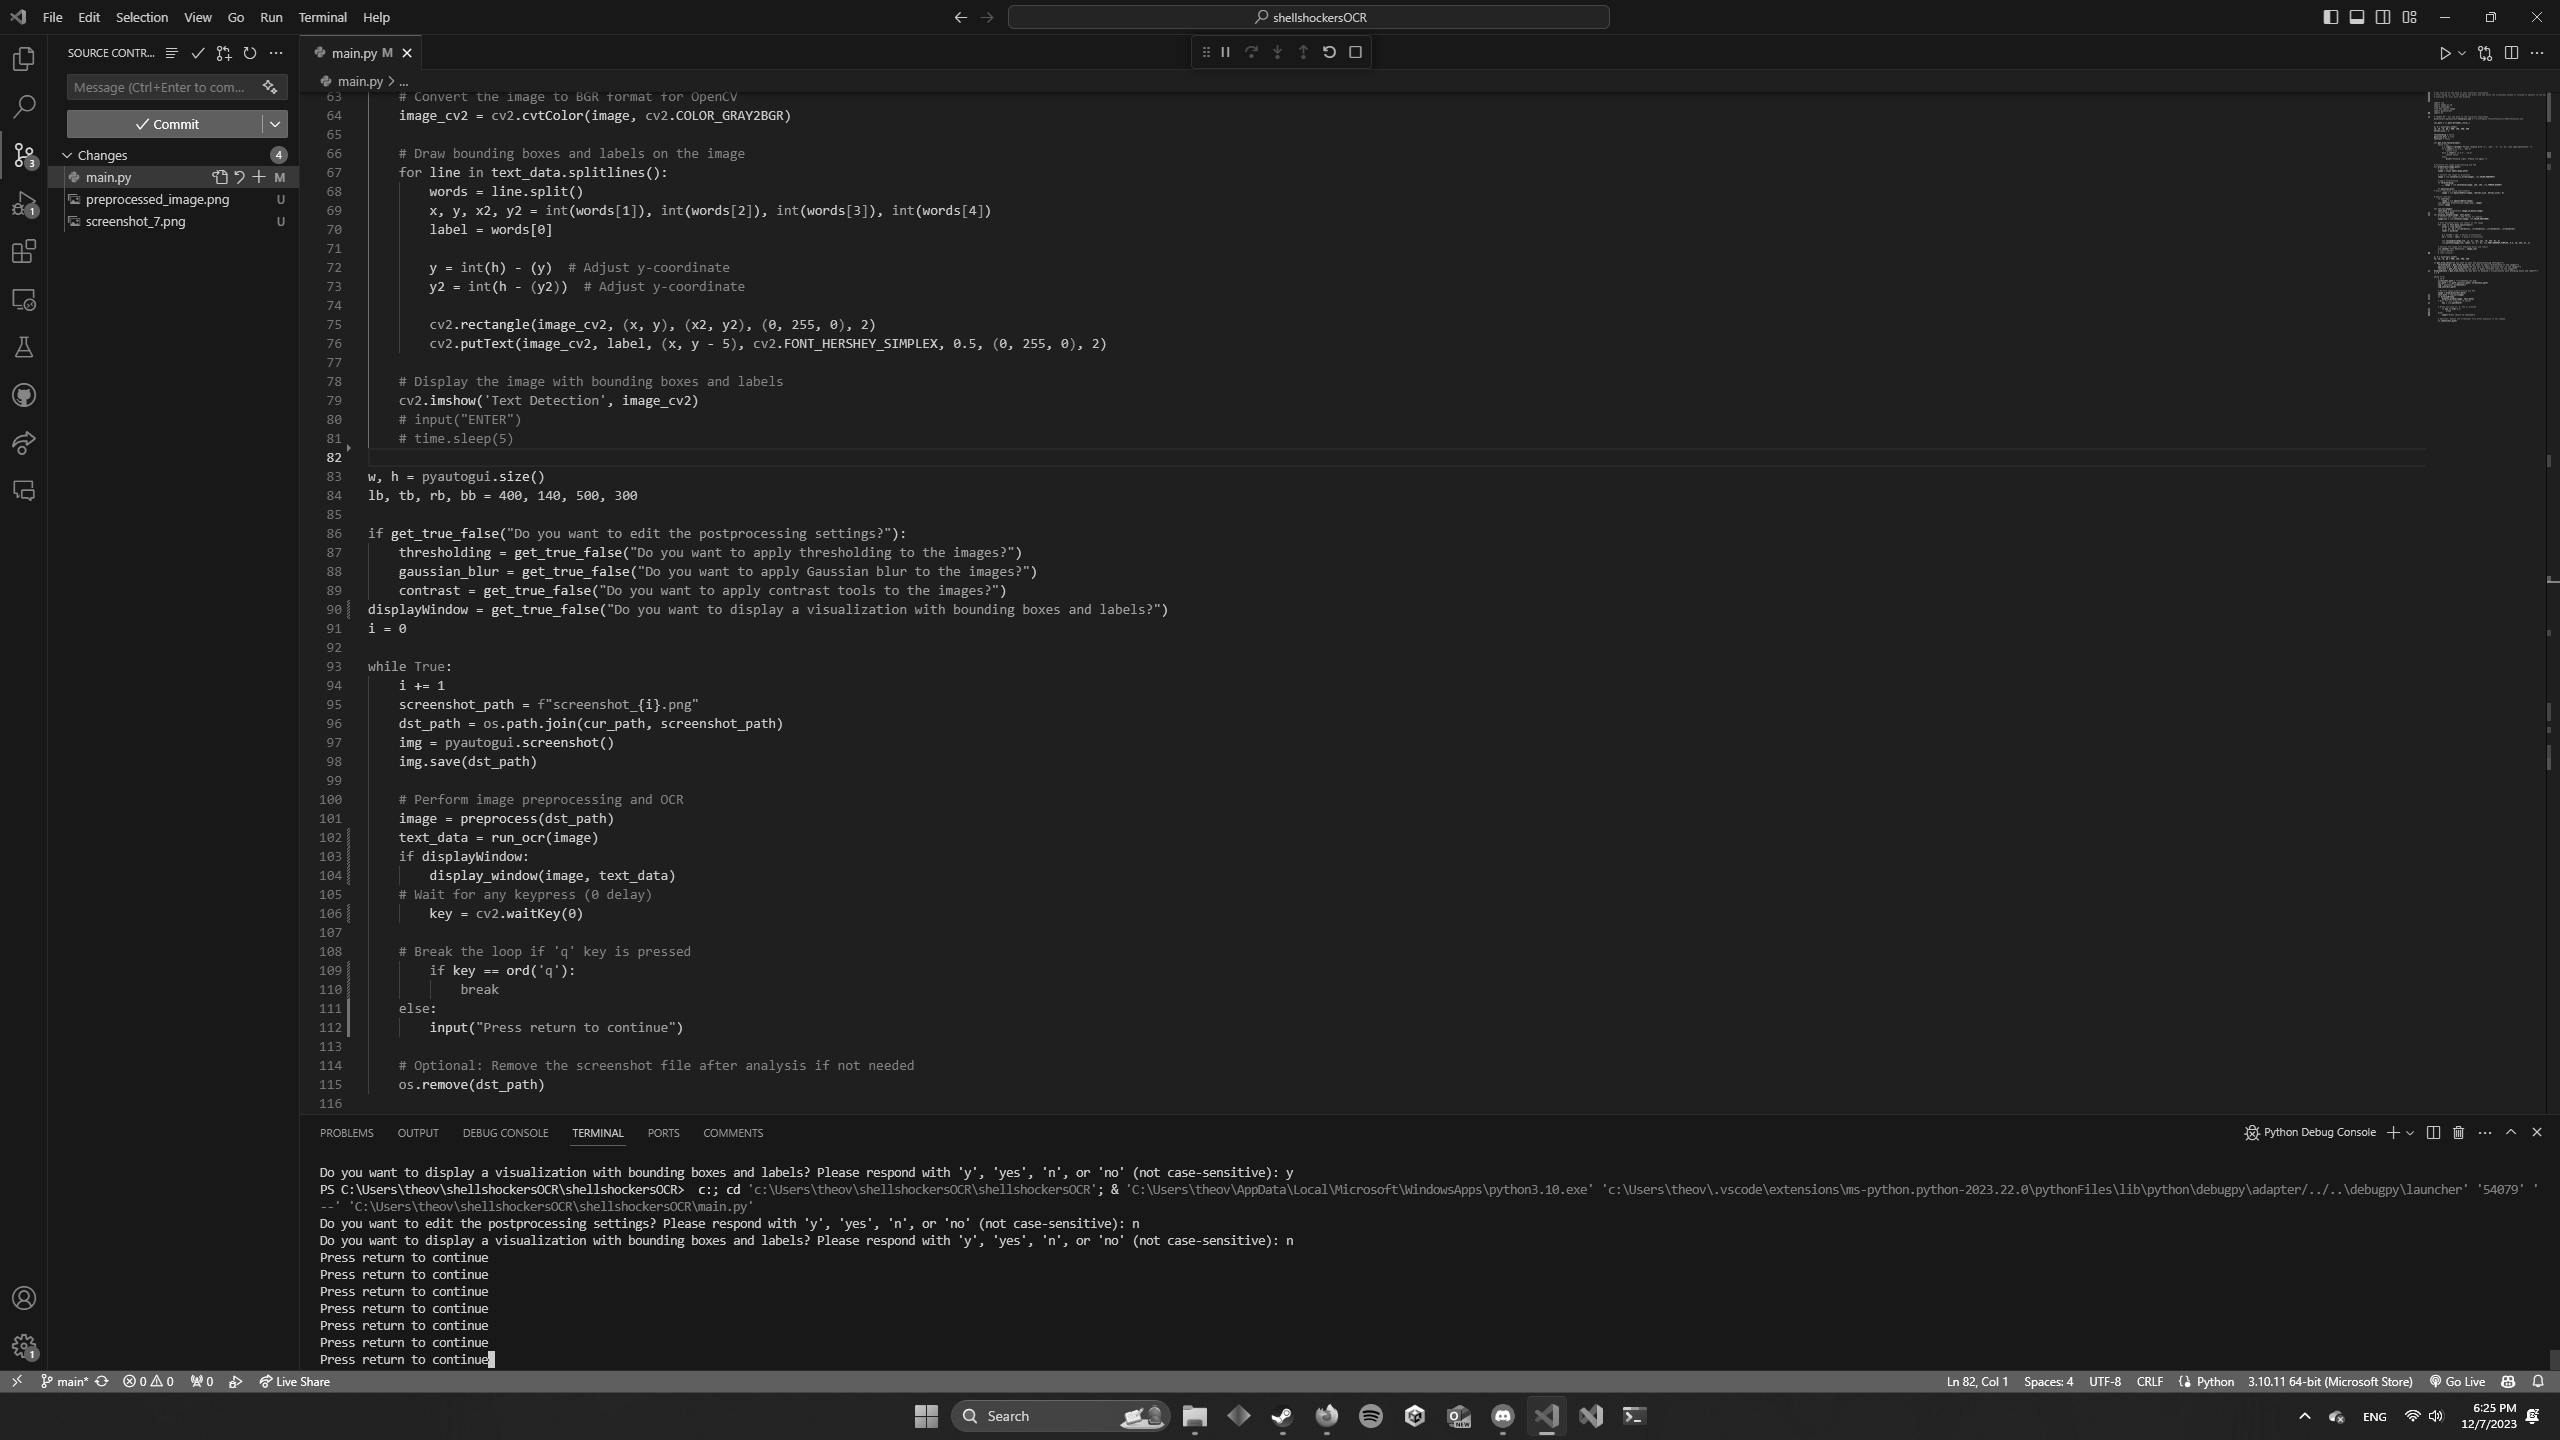
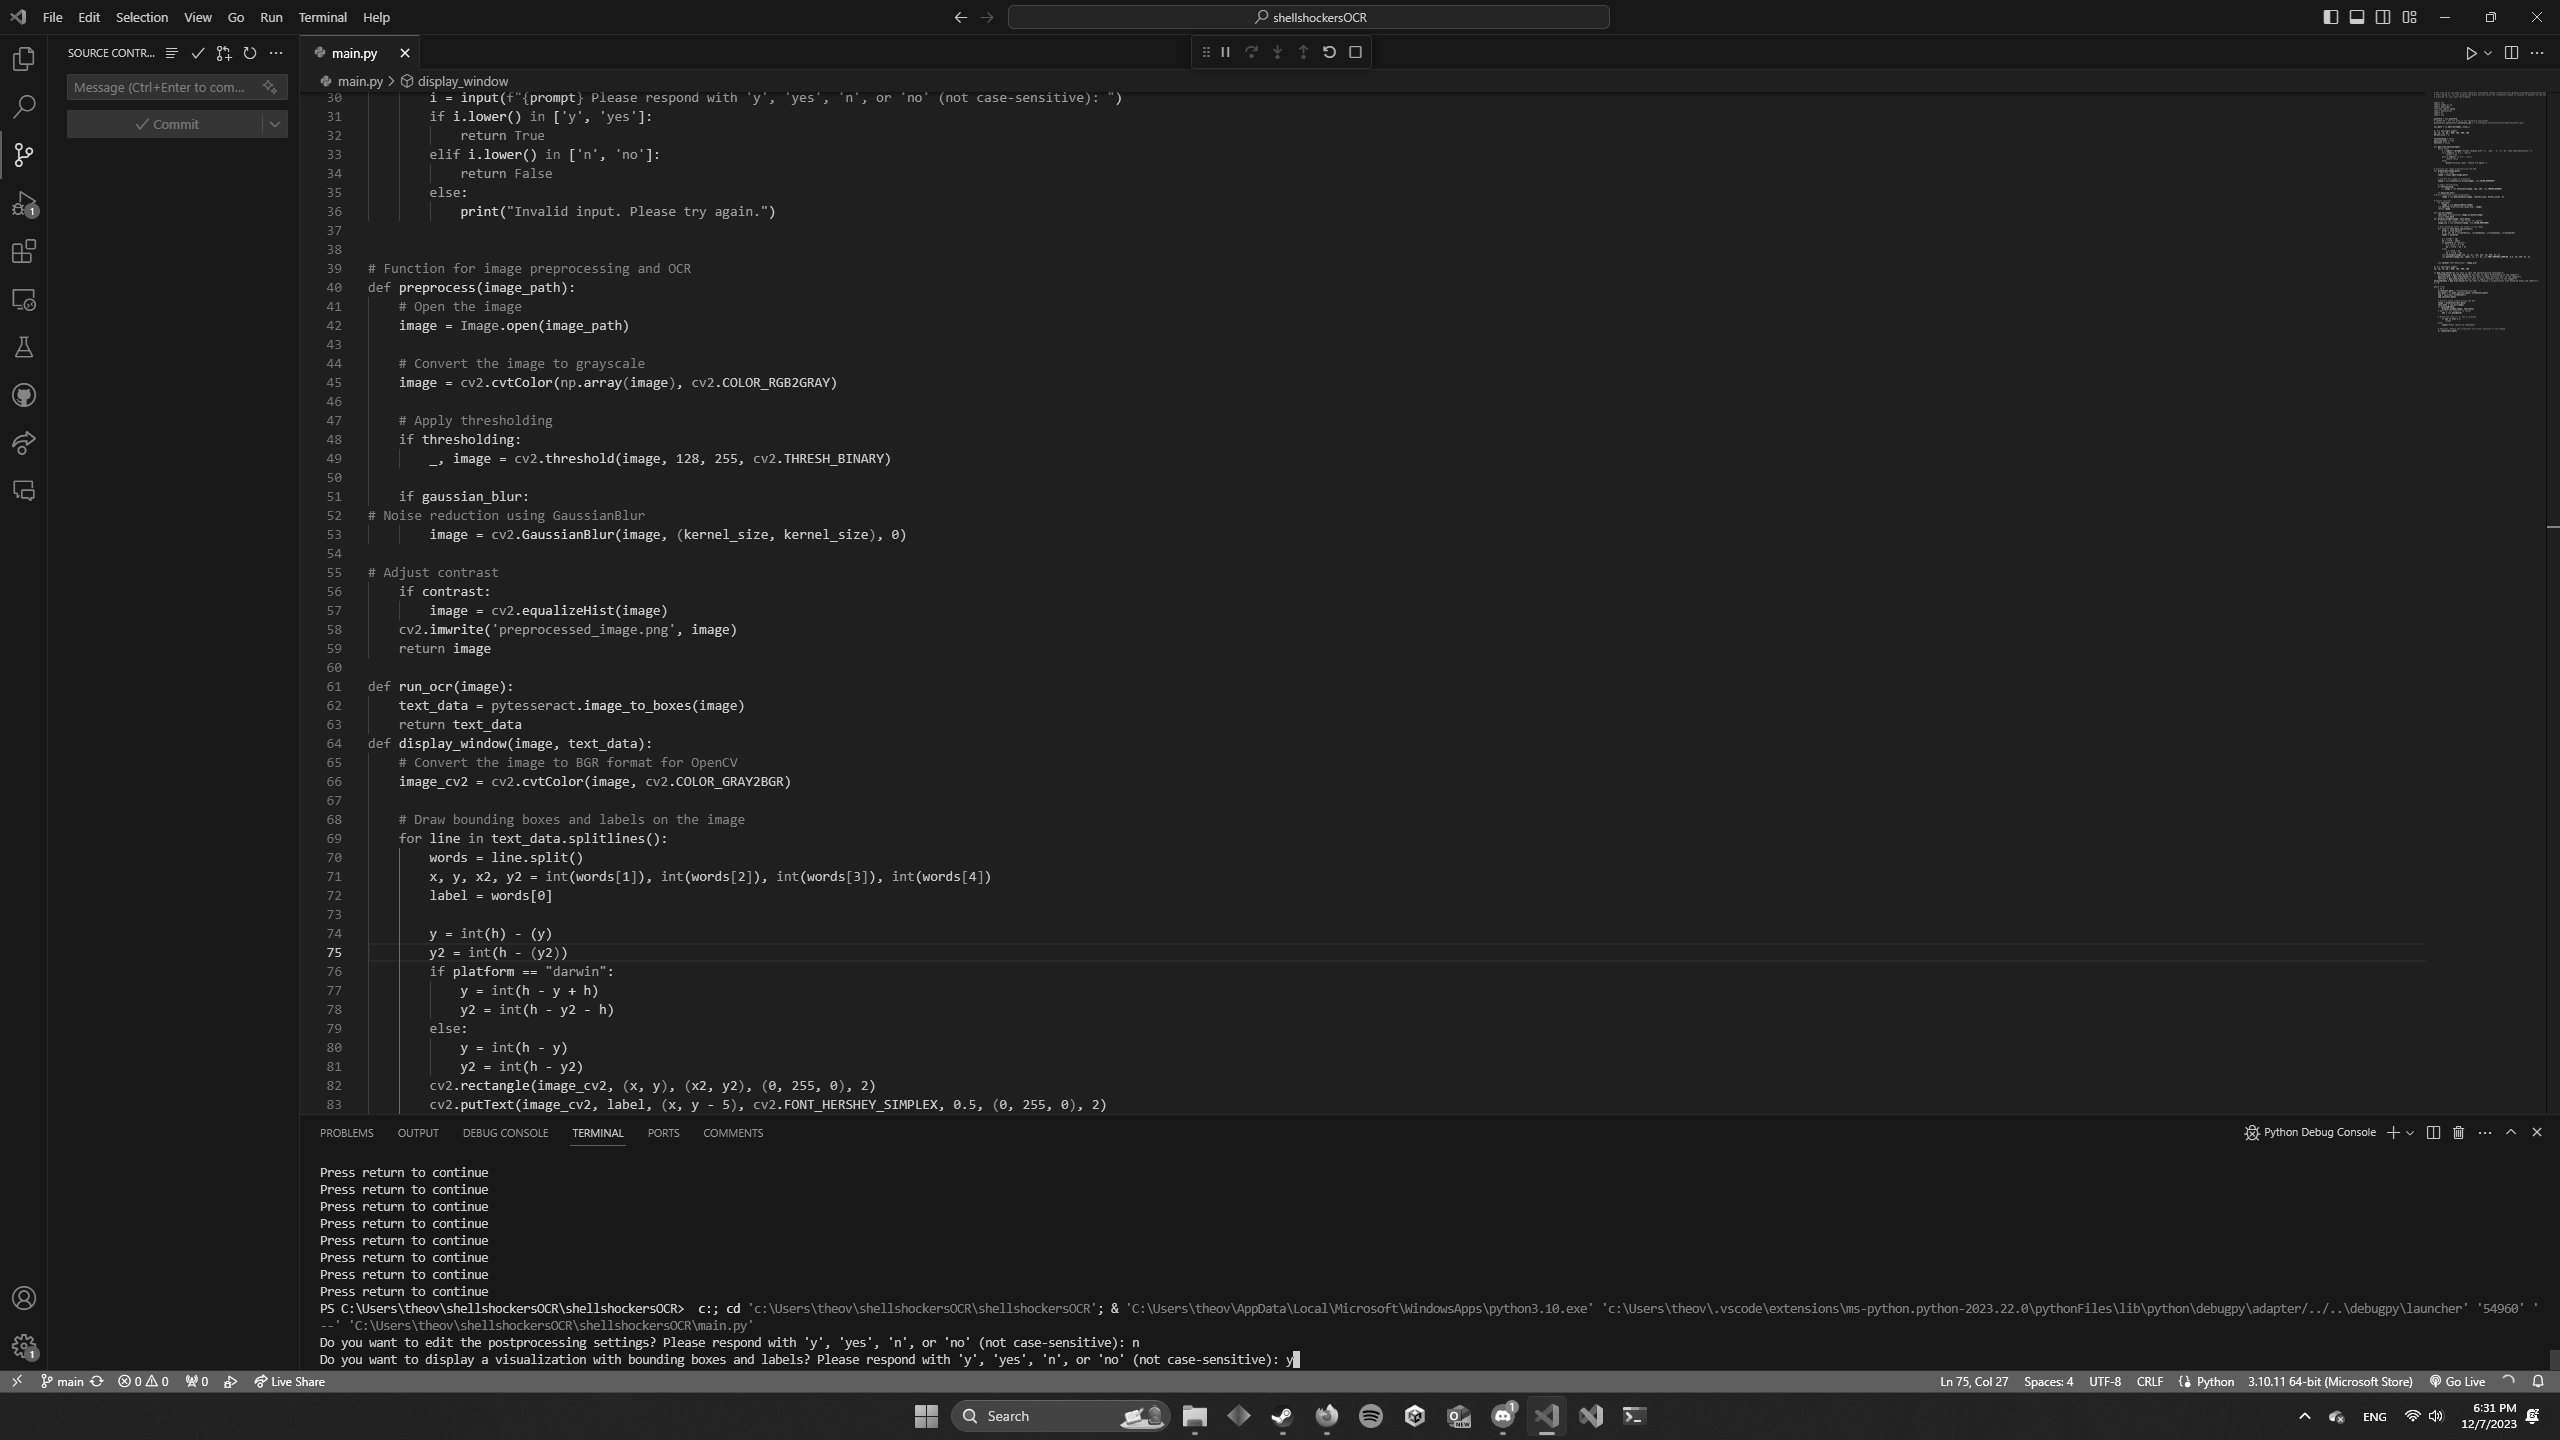
fixed macos fix

diff --git a/main.py b/main.py
@@ -71,8 +71,7 @@ def display_window(image, text_data):
         x, y, x2, y2 = int(words[1]), int(words[2]), int(words[3]), int(words[4])
         label = words[0]
 
-        y = int(h) - (y)
-        y2 = int(h - (y2))
+        
         if platform == "darwin":
             y = int(h - y + h)
             y2 = int(h - y2 - h)
